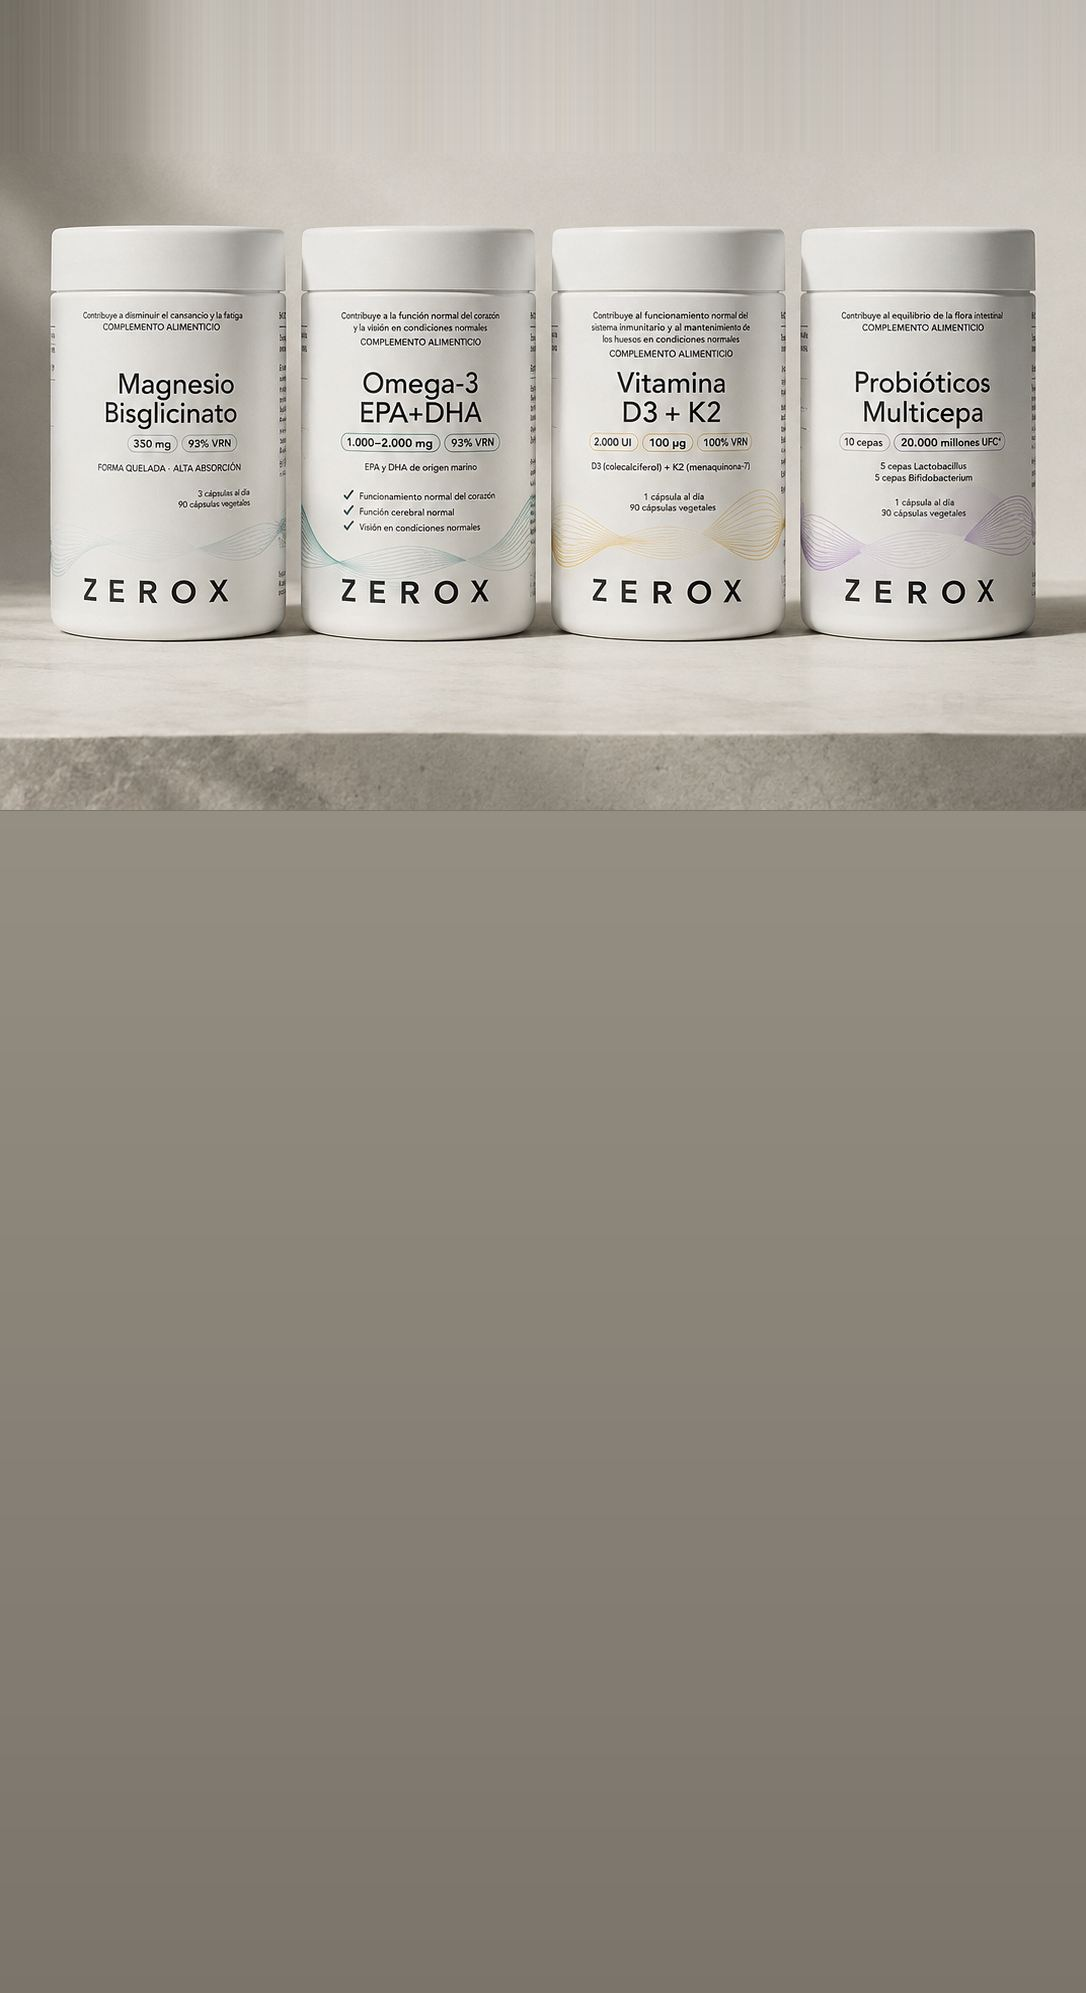
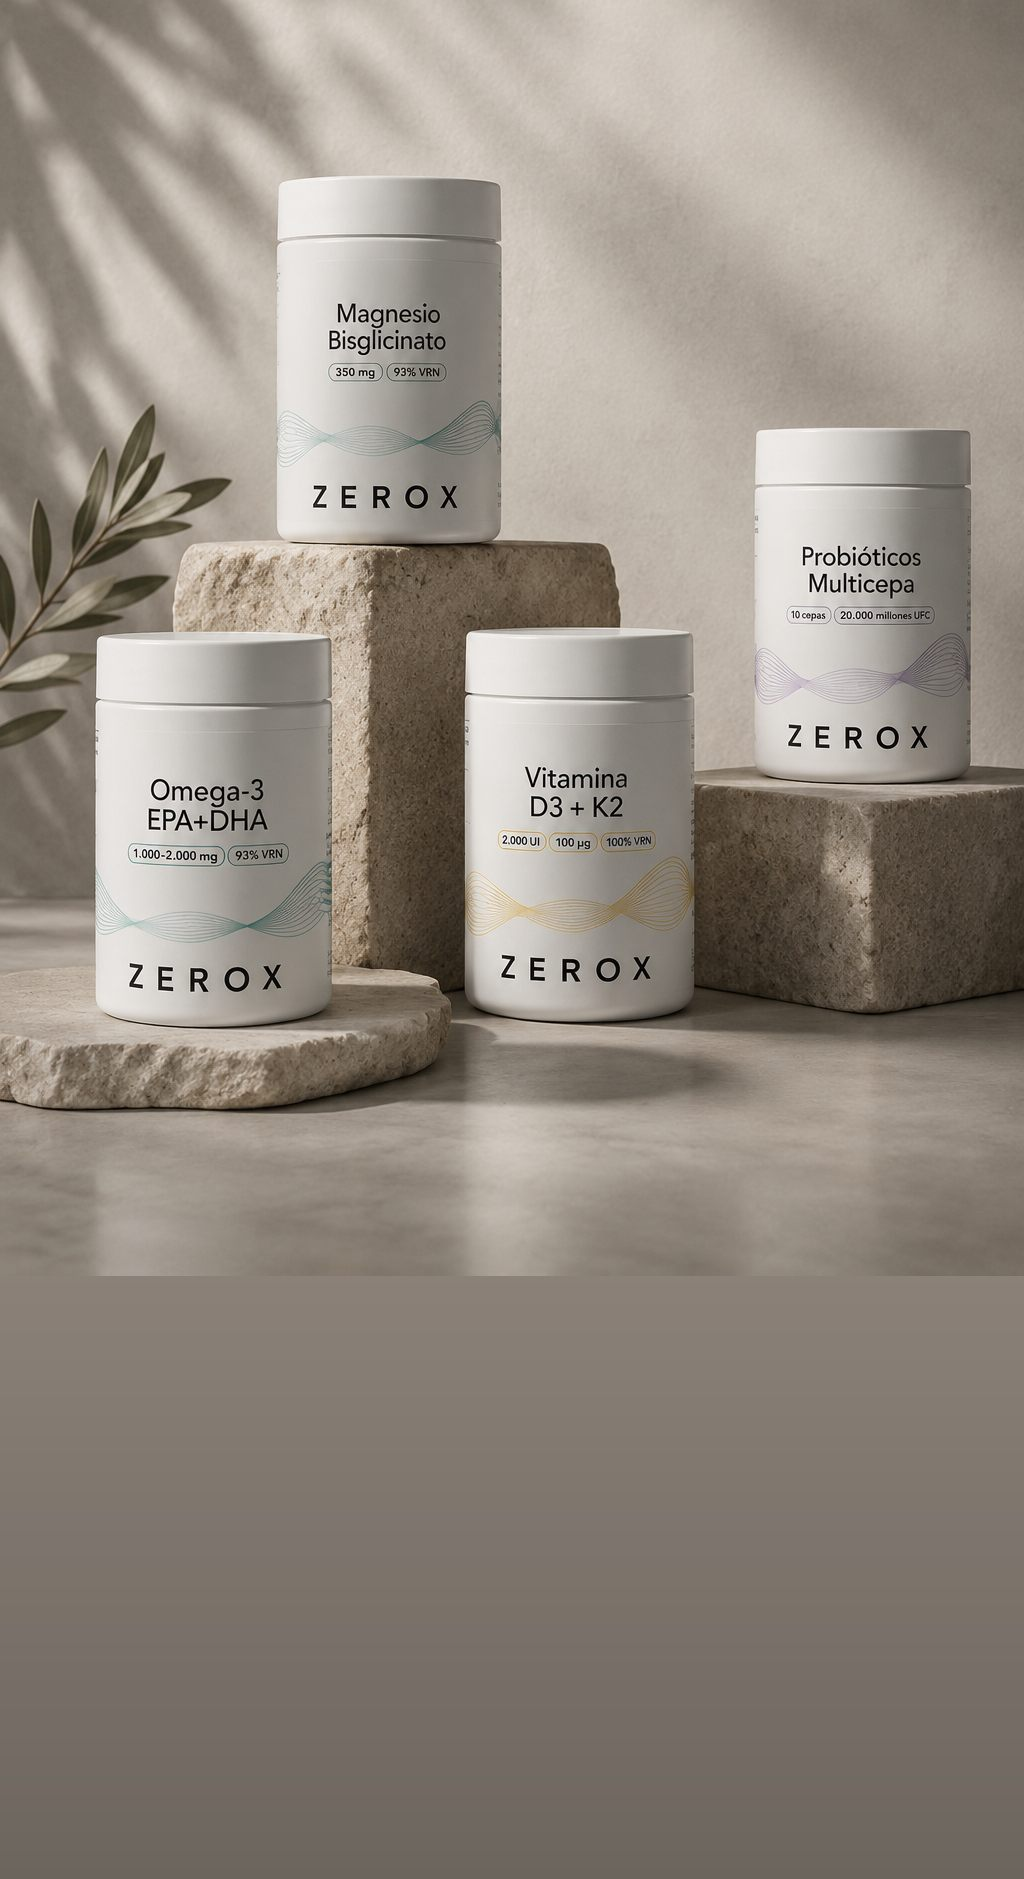
feat: nueva foto de marca en la diapositiva 1, sin texto dentro
Sustituye la version anterior por la nueva composicion de los cuatro
botes sobre piedra, esta vez generada ya sin titular ni boton dibujados.

El original es 1024x1536 (0,667) y la tarjeta es 0,545, asi que se monta
sobre un lienzo de 1024x1879, la proporcion exacta de la tarjeta: 0 px de
recorte lateral y los cuatro botes enteros.

La foto va subida 260px dentro del lienzo. Se recorta pared de arriba,
donde solo hay sombra de palmera, y con eso los botes pasan del 23-69%
al 9-55%: el texto les pisaba 135px y ahora 45, que caen bajo el
cintillo. El bote de la D3+K2 y el del omega-3 vuelven a verse.

El relleno inferior prolonga el suelo y queda por debajo del 65% de
opacidad del degradado, dentro de la franja del texto.

diff --git a/index.html b/index.html
@@ -1069,7 +1069,7 @@
     <div class="hero-carousel-track" id="hero-carousel-track">
     <div class="hero-slide active">
       <div class="hero-media-box">
-        <img src="hero-zerox.jpg" width="1086" height="1993" alt="Las cuatro fórmulas de ZEROX" decoding="async" fetchpriority="high">
+        <img src="hero-zerox.jpg" width="1024" height="1879" alt="Las cuatro fórmulas de ZEROX" decoding="async" fetchpriority="high">
         <div class="hero-shade"></div>
         <div class="hero-copy">
           <p class="hero-lockup">zerox</p>
